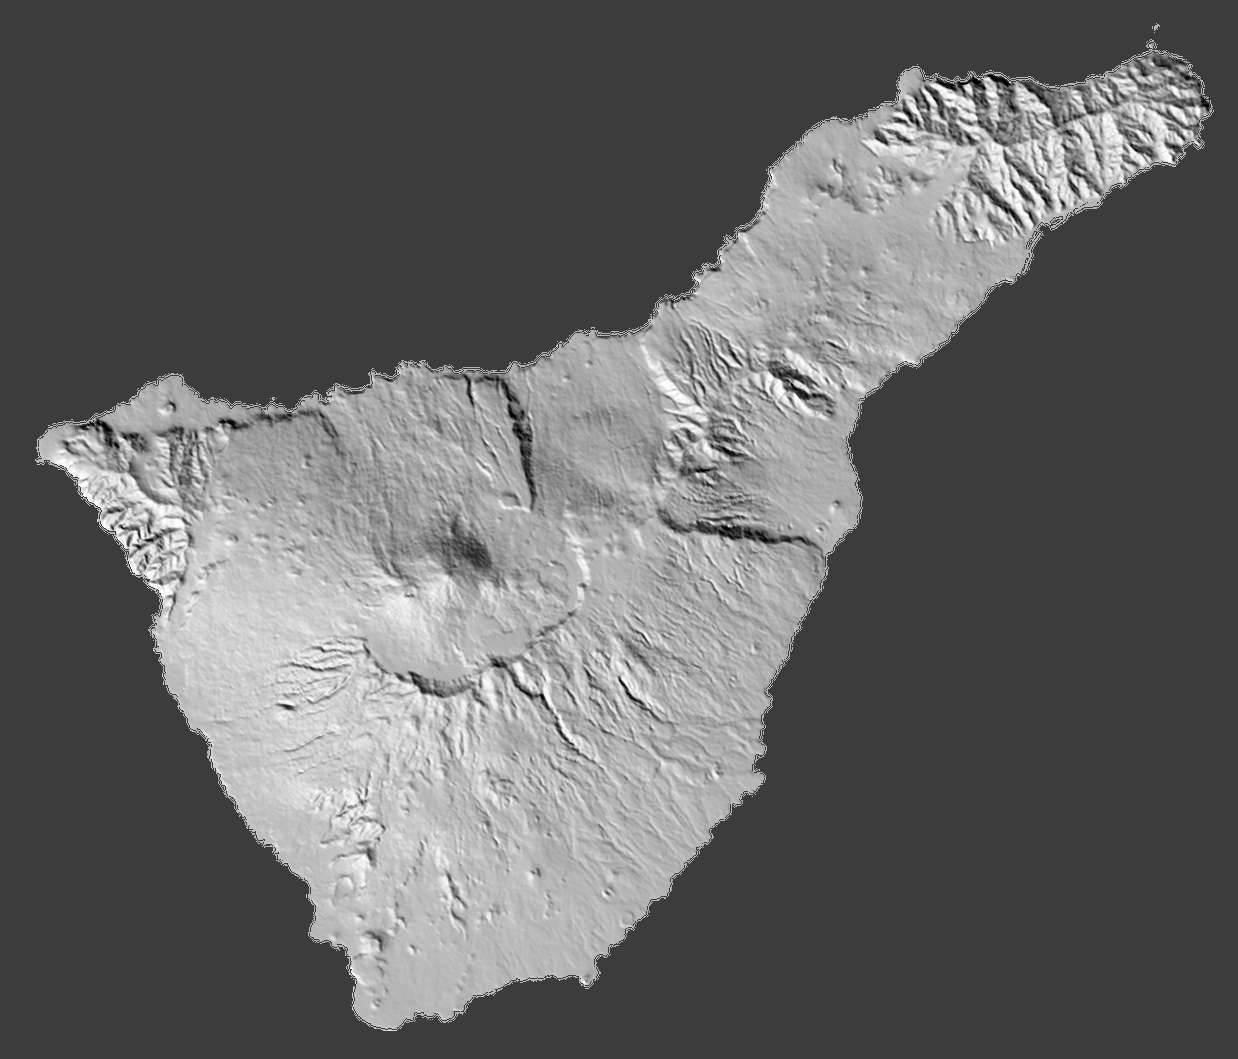
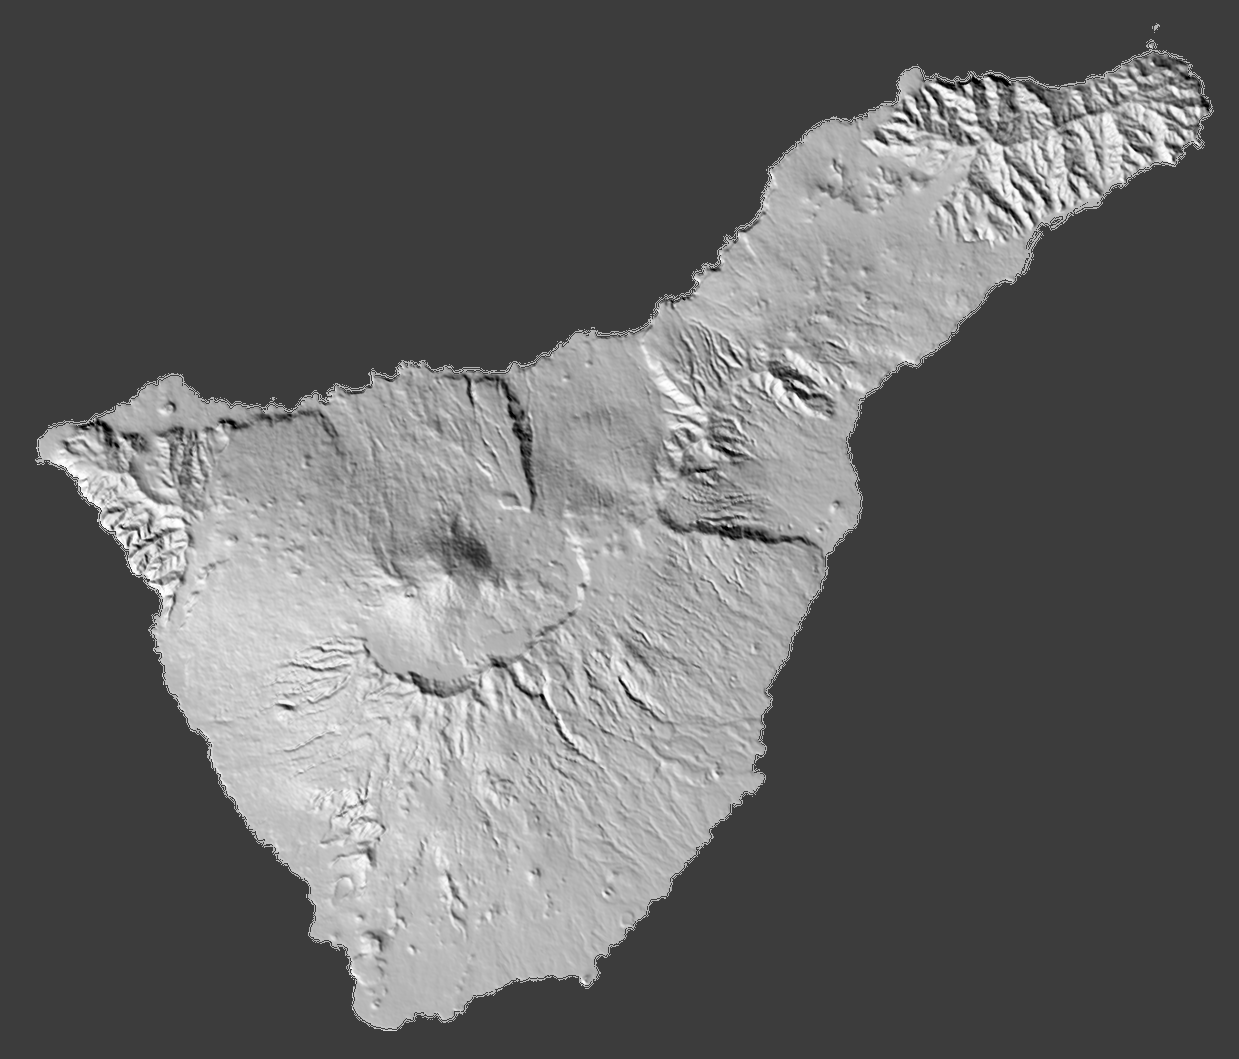
v0.6.0 (parte 2): terreno de Tenerife revisado — min_h coherente con el PNG, recorte exacto del bbox, verificación completa
Revisión independiente del dataset: el JSON anunciaba min_h=-2783 m pero el PNG
de 16 bits con offset 1000 no puede codificar por debajo de -1000 m; ahora
min_h/max_h salen de los valores codificados, verify() decodifica el PNG entero
y comprueba el suelo de -1000 m, el recorte cubre el bbox completo (redondeo
hacia arriba) y el README documenta el límite de batimetría y que h==0 es mar.

Claude-Session: https://claude.ai/code/session_01XdSrFJeWx6TEpERZZiuLQi

diff --git a/tools/geo/build_tenerife.py b/tools/geo/build_tenerife.py
@@ -22,6 +22,21 @@ Salidas (contrato GEO, ver docstring de `write_outputs`):
   chain/crates/rami-gui/src/geo/tenerife.json      metadatos (origen, escala, pueblos, carreteras...)
   tools/geo/preview.png                            hillshade 8 bit (sólo para inspección)
 
+Notas del contrato que conviene tener presentes:
+  * Con offset = 1000 el PNG NO puede representar profundidades por debajo de
+    -1000 m: todo lo más hondo se recorta a v = 0 (h = -1000 m, un fondo plano).
+    `min_h`/`max_h` del JSON se calculan sobre los valores YA codificados, así
+    que describen exactamente lo que hay en el PNG (min_h nunca baja de -1000).
+  * h == 0 es MAR por diseño (contrato: mar = h <= 0). El relleno de batimetría
+    deja en 0 m exactos los píxeles enmascarados en zoom 12 cuyo vecino grueso
+    de zoom 10 es tierra (>= 0), una franja fina pegada a la costa. Un
+    renderizador que use `h < 0` verá un anillo de 0 m alrededor de la isla.
+  * El recorte empieza en (floor(x0), floor(y0)) píxeles nativos de zoom 12 y
+    mide width*downsample x height*downsample píxeles nativos, redondeado HACIA
+    ARRIBA a múltiplo de `downsample`: cubre la bbox entera con hasta
+    `downsample` px nativos de sobra por el este/sur; no coincide exactamente
+    con la bbox del JSON.
+
 El script es idempotente: cachea cada tesela y el GeoJSON en tools/geo/cache/ y
 puede relanzarse tantas veces como se quiera.
 
@@ -301,12 +316,15 @@ def build_mosaic():
     a la bbox (en resolución nativa de zoom 12)."""
     x0f, y0f = lonlat_to_px(BBOX["west"], BBOX["north"])
     x1f, y1f = lonlat_to_px(BBOX["east"], BBOX["south"])
-    # recorte en píxeles enteros; lo redondeamos a múltiplo de DOWNSAMPLE
+    # recorte en píxeles enteros, redondeado HACIA ARRIBA a múltiplo de DOWNSAMPLE
+    # para que la imagen cubra la bbox completa (antes se redondeaba hacia abajo
+    # y el borde este quedaba ~0.35 px nativos (~13 m) corto).
     px0, py0 = int(math.floor(x0f)), int(math.floor(y0f))
     px1, py1 = int(math.ceil(x1f)), int(math.ceil(y1f))
-    W = (px1 - px0) // DOWNSAMPLE * DOWNSAMPLE
-    H = (py1 - py0) // DOWNSAMPLE * DOWNSAMPLE
+    W = -(-(px1 - px0) // DOWNSAMPLE) * DOWNSAMPLE
+    H = -(-(py1 - py0) // DOWNSAMPLE) * DOWNSAMPLE
     px1, py1 = px0 + W, py0 + H
+    assert px0 <= x0f and py0 <= y0f and px1 >= x1f and py1 >= y1f
     tx0, tx1 = px0 // TILE, (px1 - 1) // TILE
     ty0, ty1 = py0 // TILE, (py1 - 1) // TILE
     ntiles = (tx1 - tx0 + 1) * (ty1 - ty0 + 1)
@@ -473,14 +491,48 @@ def ensure_gitignore():
     print("Añadido %s a .gitignore" % line)
 
 
-def write_outputs(heights, origin_px, roads, make_preview=True):
-    H, W = len(heights), len(heights[0])
-    min_h = min(min(r) for r in heights)
-    max_h = max(max(r) for r in heights)
+def encode_heights(heights):
+    """Codifica las alturas al contrato del PNG: v = clamp(round(h) + OFFSET, 0, 65535).
+    Devuelve (rows, stats) con rows = filas ya empaquetadas big-endian y stats un dict
+    con el mínimo/máximo codificados (en metros) y cuántos píxeles se recortaron por
+    abajo (v == 0, h <= -1000 m) y por arriba (v == 65535)."""
+    W = len(heights[0])
     rows = []
+    vmin, vmax = 65535, 0
+    clamp_lo = clamp_hi = 0
     for r in heights:
-        vals = [max(0, min(65535, int(round(h)) + OFFSET)) for h in r]
+        vals = [0] * W
+        for x, h in enumerate(r):
+            v = int(round(h)) + OFFSET
+            if v <= 0:
+                clamp_lo += v < 0
+                v = 0
+            elif v >= 65535:
+                clamp_hi += v > 65535
+                v = 65535
+            vals[x] = v
         rows.append(struct.pack(">%dH" % W, *vals))
+        vmin = min(vmin, min(vals))
+        vmax = max(vmax, max(vals))
+    stats = {"min_h": float(vmin - OFFSET), "max_h": float(vmax - OFFSET),
+             "clamped_low": clamp_lo, "clamped_high": clamp_hi}
+    return rows, stats
+
+
+def write_outputs(heights, origin_px, roads, make_preview=True):
+    """Escribe el PNG de 16 bits y el JSON del contrato GEO (claves fijas: name,
+    attribution, zoom, downsample, width, height, origin_px, meters_per_pixel,
+    offset, min_h, max_h, bbox, peak, towns, roads). `min_h`/`max_h` son el mínimo y
+    máximo de los valores YA codificados (tras el recorte a [0, 65535]), es decir,
+    exactamente lo que un lector del PNG obtendrá con h = v - offset."""
+    H, W = len(heights), len(heights[0])
+    rows, stats = encode_heights(heights)
+    min_h, max_h = stats["min_h"], stats["max_h"]
+    raw_min = min(min(r) for r in heights)
+    raw_max = max(max(r) for r in heights)
+    print("Codificación PNG: min bruto %.1f m -> codificado %.0f m ; max bruto %.1f m -> %.0f m ; "
+          "recortados por abajo (h < -%d m): %d ; por arriba: %d"
+          % (raw_min, min_h, raw_max, max_h, OFFSET, stats["clamped_low"], stats["clamped_high"]))
     png = encode_png_gray(W, H, rows, 16)
     os.makedirs(OUT_DIR, exist_ok=True)
     with open(OUT_PNG, "wb") as f:
@@ -591,6 +643,42 @@ def verify(heights, meta):
     ok &= c6
     print("  relectura PNG: %dx%d ch=%d bd=%d, v(pico)=%d -> %.0f m  [%s]"
           % (w2, h2, ch2, bd2, v, v - OFFSET, "OK" if c6 else "FALLO"))
+    # el JSON debe describir el PNG tal cual se codificó (mínimo recortado a v = 0)
+    vmin, vmax = 65535, 0
+    n_v0 = n_vmax = n_v_off = 0
+    for r in rows2:
+        vals = struct.unpack(">%dH" % w2, r)
+        vmin = min(vmin, min(vals))
+        vmax = max(vmax, max(vals))
+        n_v0 += vals.count(0)
+        n_vmax += vals.count(65535)
+        n_v_off += vals.count(OFFSET)
+    total = w2 * h2
+    c7 = (vmin - OFFSET == meta["min_h"] and vmax - OFFSET == meta["max_h"]
+          and meta["min_h"] >= -OFFSET)
+    ok &= c7
+    print("  PNG decodificado: min v=%d (%.0f m) max v=%d (%.0f m) == JSON min_h=%.1f max_h=%.1f  [%s]"
+          % (vmin, vmin - OFFSET, vmax, vmax - OFFSET, meta["min_h"], meta["max_h"],
+             "OK" if c7 else "FALLO"))
+    print("  píxeles recortados al suelo v=0 (h <= -%d m): %d de %d (%.1f%%) ; al techo v=65535: %d"
+          % (OFFSET, n_v0, total, 100.0 * n_v0 / total, n_vmax))
+    n_zero = sum(r.count(0.0) for r in heights)
+    n_sea = sum(1 for r in heights for h in r if h <= 0)
+    print("  píxeles con h == 0: %d exactos en el array, %d con v == %d en el PNG (|h| < 0.5) ; "
+          "son MAR por contrato (h <= 0) ; mar total: %d (%.1f%%)"
+          % (n_zero, n_v_off, OFFSET, n_sea, 100.0 * n_sea / total))
+    # la imagen debe cubrir la bbox entera (redondeo hacia arriba del recorte)
+    ds = meta["downsample"]
+    x0f, y0f = lonlat_to_px(BBOX["west"], BBOX["north"])
+    x1f, y1f = lonlat_to_px(BBOX["east"], BBOX["south"])
+    ox, oy = meta["origin_px"]["x"], meta["origin_px"]["y"]
+    ex, ey = ox + W * ds, oy + H * ds
+    c8 = ox <= x0f and oy <= y0f and ex >= x1f and ey >= y1f
+    ok &= c8
+    lon_e, lat_s = px_to_lonlat(ex, ey)
+    print("  cobertura bbox: px [%.0f..%.0f) x [%.0f..%.0f) contiene [%.2f..%.2f] x [%.2f..%.2f] ; "
+          "esquina inferior derecha lon=%.5f lat=%.5f  [%s]"
+          % (ox, ex, oy, ey, x0f, x1f, y0f, y1f, lon_e, lat_s, "OK" if c8 else "FALLO"))
     print("RESULTADO: %s" % ("TODO OK" if ok else "HAY FALLOS"))
     return ok
 

diff --git a/tools/geo/README.md b/tools/geo/README.md
@@ -9,7 +9,7 @@ dato de Google Maps / Google Earth (ver "Qué NO se usa").
 
 | Fichero | Descripción |
 |---|---|
-| `chain/crates/rami-gui/src/geo/tenerife.hgt.png` | Mapa de alturas: PNG **gris de 16 bits** (color type 0, sin entrelazado, muestras big-endian). Valor `v` → altura `h = v - 1000` metros. Fila 0 = NORTE, columna 0 = OESTE. El mar es `h <= 0` (el dataset incluye batimetría, así que la línea de costa sale sola de los datos). |
+| `chain/crates/rami-gui/src/geo/tenerife.hgt.png` | Mapa de alturas: PNG **gris de 16 bits** (color type 0, sin entrelazado, muestras big-endian). Valor `v` → altura `h = v - 1000` metros. Fila 0 = NORTE, columna 0 = OESTE. El mar es `h <= 0` (el dataset incluye batimetría **hasta -1000 m**, así que la línea de costa sale sola de los datos; ver "Límites del contrato"). |
 | `chain/crates/rami-gui/src/geo/tenerife.json` | Metadatos: `origin_px` (esquina superior izquierda del recorte en píxeles de tesela Web-Mercator a zoom 12, antes del downsample), `meters_per_pixel`, `offset`, `min_h`/`max_h`, `bbox`, `peak` (Teide medido en el dataset), `towns` (lista curada de lugares) y `roads` (polilíneas `[lon,lat]`). |
 | `tools/geo/preview.png` | Hillshade de 8 bits, sólo para inspección visual (no lo usa la app). |
 
@@ -20,6 +20,30 @@ X = ((lon+180)/360 * 2^12 * 256 - origin_px.x) / downsample
 Y = ((1 - ln(tan(lat) + 1/cos(lat)) / π) / 2 * 2^12 * 256 - origin_px.y) / downsample
 worldX = X * meters_per_pixel ; worldZ = Y * meters_per_pixel (crece hacia el sur) ; worldY = h
 ```
+
+### Límites del contrato (léase antes de consumir el dataset)
+
+* **Suelo a -1000 m.** Con `offset = 1000` una muestra de 16 bits sin signo no
+  puede representar profundidades por debajo de `h = -1000 m`: todo lo más hondo
+  se recorta a `v = 0`. En la construcción actual eso afecta al 39,7 % de los
+  píxeles (≈ 521 k de 1 312 k; el mar abierto alrededor de la isla es un
+  plateau plano a -1000 m). Por eso `min_h` del JSON es exactamente `-1000.0`:
+  **`min_h`/`max_h` se calculan sobre los valores ya codificados**, de modo que
+  describen el PNG tal cual (`max_h` también queda redondeado al metro). Quien
+  necesite la batimetría real debe leer las teselas de zoom 10 de la fuente.
+* **`h == 0` es mar.** El contrato define mar como `h <= 0`, no `h < 0`. El
+  relleno de batimetría deja en `0 m` exactos los píxeles enmascarados en zoom
+  12 cuyo vecino grueso de zoom 10 es tierra (≥ 0): una franja fina pegada a la
+  costa (≈ 43 k píxeles exactos en el array, ≈ 56 k con `v == 1000` en el PNG
+  contando los que redondean a 0). Un renderizador que pruebe `h < 0` verá un
+  anillo de 0 m alrededor de la isla; el de `rami-gui` debe usar `h <= 0`.
+* **La imagen no coincide exactamente con la bbox.** El recorte empieza en
+  `origin_px = (floor(x0), floor(y0))` píxeles nativos de zoom 12 y mide
+  `width*downsample × height*downsample` píxeles nativos, redondeado **hacia
+  arriba** a múltiplo de `downsample`. Cubre la bbox del JSON completa (el
+  script lo comprueba) con hasta `downsample` px nativos de sobra por el este y
+  el sur; la esquina inferior derecha real está en lon −16.09943, lat 27.97985.
+  Para convertir coordenadas hay que usar `origin_px`, nunca la bbox.
 
 ## Fuentes y licencias
 
@@ -85,15 +109,19 @@ El script:
    GeoJSON de carreteras. Todo se cachea en `tools/geo/cache/` (ignorado por
    git, ≈ 55 MB), así que relanzarlo es rápido e **idempotente**.
 2. Monta el mosaico en espacio de píxeles de tesela, recorta a la bbox
-   (redondeado a múltiplo de 2), rellena el océano enmascarado con batimetría y
-   reduce 2× por media de caja.
+   (redondeado hacia arriba a múltiplo de 2 para cubrirla entera), rellena el
+   océano enmascarado con batimetría y reduce 2× por media de caja.
 3. Escribe el PNG de 16 bits (`v = clamp(round(h)+1000, 0, 65535)`, filtro
-   None/Up/Paeth elegido por fila, zlib nivel 9; ≈ 0.5 MB), el JSON y el
-   hillshade.
+   None/Up/Paeth elegido por fila, zlib nivel 9; ≈ 0.5 MB), el JSON (con
+   `min_h`/`max_h` tomados de los valores ya recortados) y el hillshade.
 4. Verifica e imprime: máximo (debe ser 3600–3760 m a < 1,5 km del Teide),
    altura en Santa Cruz (0–150 m), altura en mar abierto (< 0), orientación
-   (Santa Cruz a la derecha y por encima de Los Cristianos), tamaños y una
-   relectura del PNG escrito. Devuelve código de salida 1 si algo falla.
+   (Santa Cruz a la derecha y por encima de Los Cristianos), tamaños, una
+   relectura **completa** del PNG escrito (dimensiones, valor del pico, y que
+   el mínimo/máximo decodificados coincidan con `min_h`/`max_h` del JSON),
+   recuento de píxeles recortados a `v = 0` / `v = 65535` y de píxeles con
+   `h == 0`, y que la imagen cubre la bbox completa. Devuelve código de salida
+   1 si algo falla.
 
 Salida de referencia de la última construcción:
 
@@ -102,8 +130,16 @@ max h = 3677.4 m en px (448,575) lat=28.2726 lon=-16.6422 ; a 0.04 km del Teide 
 Santa Cruz (28.4636,-16.2518): px (1017.1,259.4) h=19.5 m  [OK]
 mar abierto (28.00,-16.20): px (1092.5,1025.8) h=-2502.5 m  [OK]
 Los Cristianos: px (341.5,941.5) h=15.2 ; Santa Cruz a la derecha y arriba  [OK]
-imagen 1238x1059 ; min_h=-2783.1 max_h=3677.4 ; m/px=67.301 ; carreteras=3 ; pueblos=25
+imagen 1239x1059 ; min_h=-1000.0 max_h=3677.0 ; m/px=67.301 ; carreteras=3 ; pueblos=25
+relectura PNG: 1239x1059 ch=1 bd=16, v(pico)=4677 -> 3677 m  [OK]
+PNG decodificado: min v=0 (-1000 m) max v=4677 (3677 m) == JSON min_h=-1000.0 max_h=3677.0  [OK]
+píxeles recortados al suelo v=0 (h <= -1000 m): 521081 de 1312101 (39.7%) ; al techo v=65535: 0
+píxeles con h == 0: 42595 exactos en el array, 55838 con v == 1000 en el PNG (|h| < 0.5) ; son MAR por contrato (h <= 0)
+cobertura bbox: px [474917..477395) x [437226..439344) contiene [474917.55..477393.35] x [437226.30..439343.50]  [OK]
 ```
+
+(La altura "mar abierto = -2502.5 m" es la del array en coma flotante antes de
+codificar; en el PNG ese píxel vale `v = 0`, es decir, -1000 m.)
 
 Si se cambia la bbox, el zoom o el `downsample`, hay que actualizar en paralelo
 el renderizador de `rami-gui` (lee todos esos valores del JSON, pero el contrato
